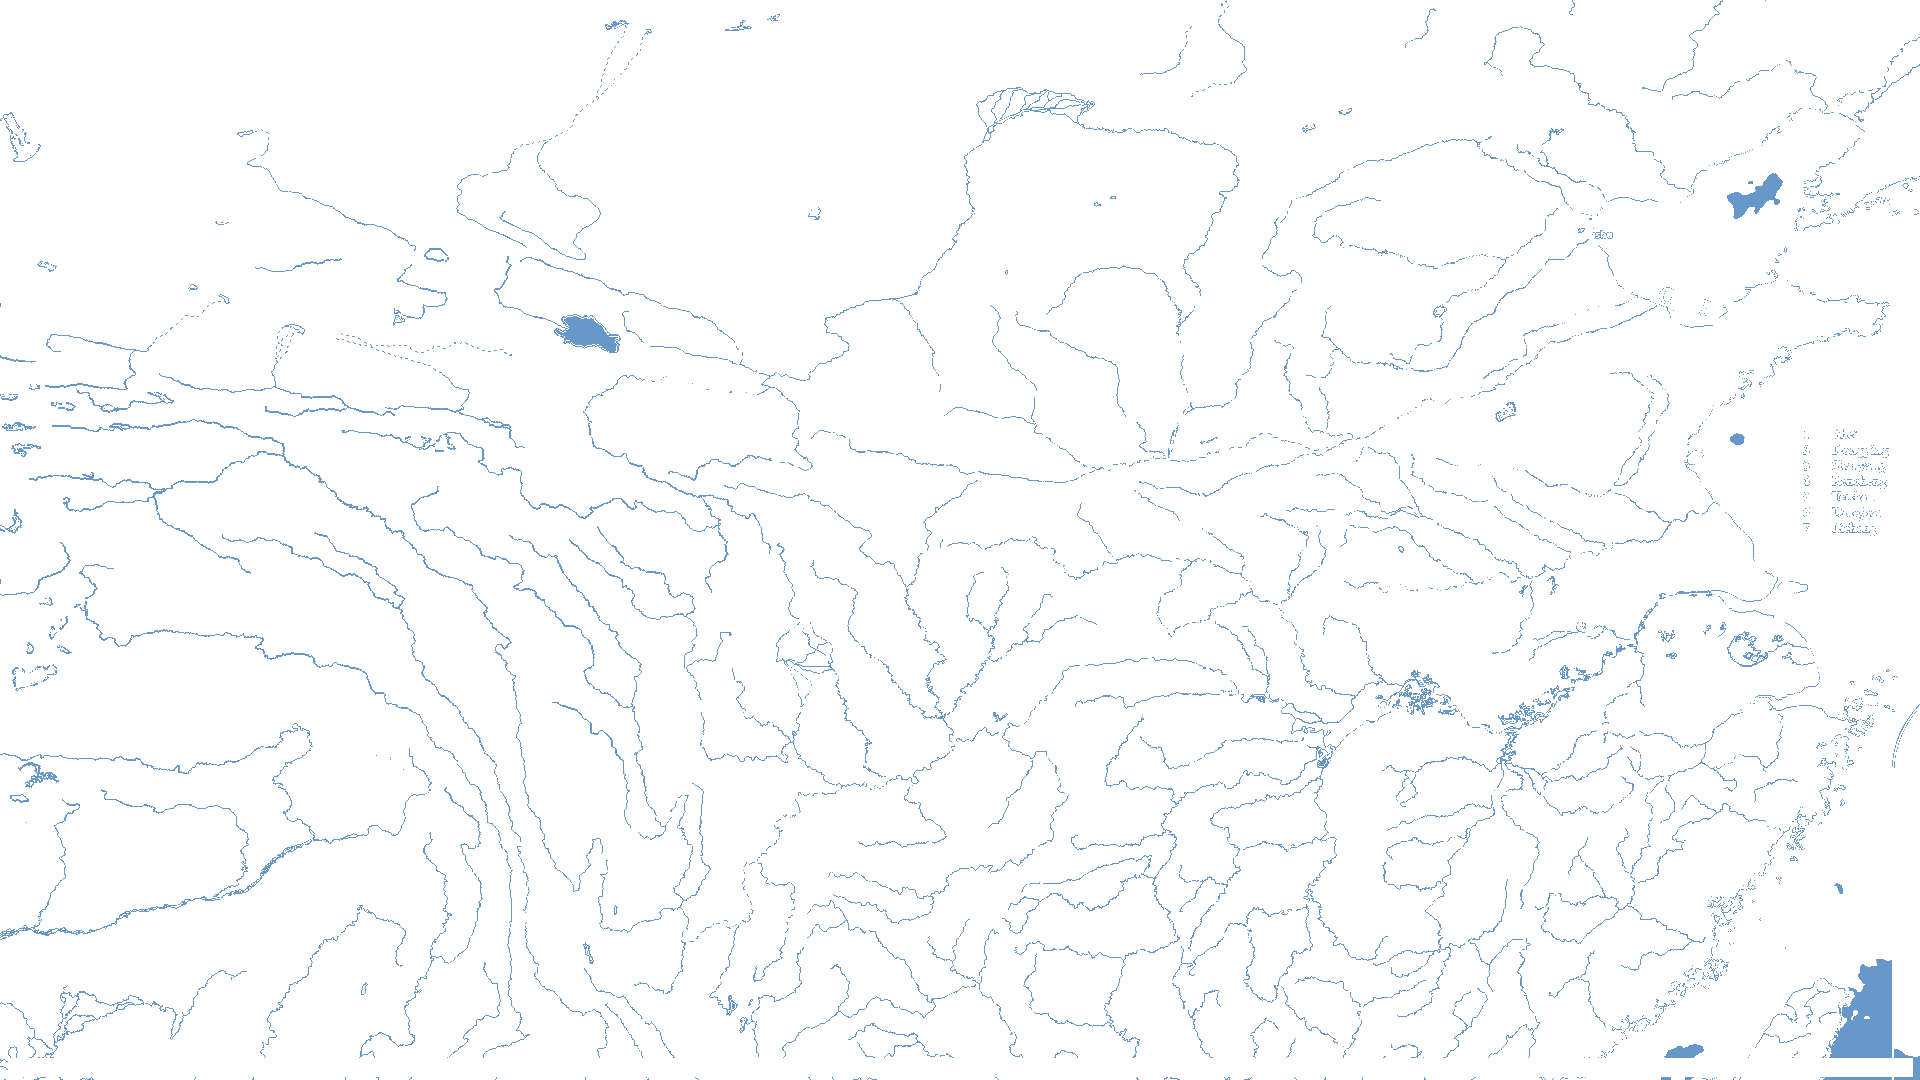
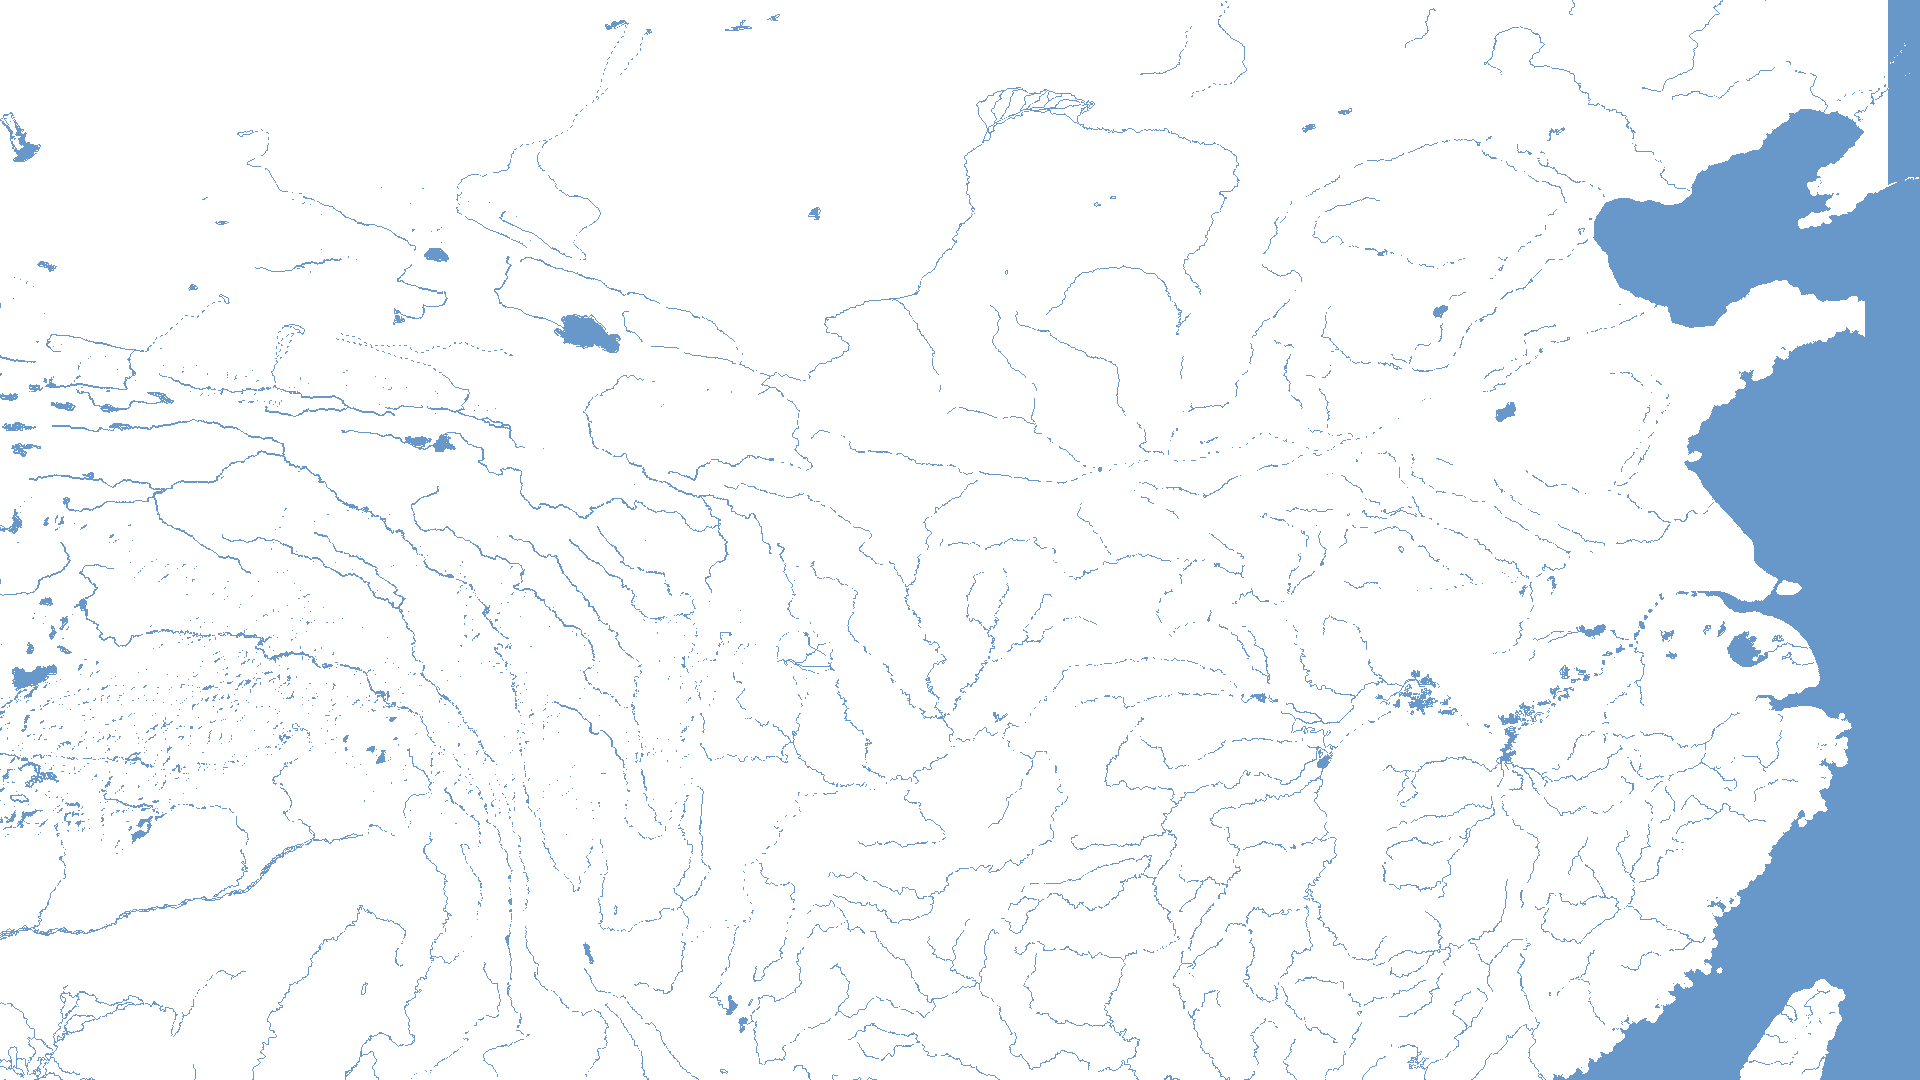
Remove Jian'an source labels from the HD terrain.
Inpaint commandery names, province letters, dashed borders, and the legend plate on the 1920x1080 crop. Keep relief, rivers, lakes, seas, and coastline. City UVs are unchanged. The playable base remains a CC BY-SA 4.0 derivative of Esiymbro's map.

diff --git a/docs/hd-overworld-spec.md b/docs/hd-overworld-spec.md
@@ -3,7 +3,7 @@
 本文是 **大地图（overworld）** 的产品与技术规格。它不是 CSS 2× 放大说明书——那一层见 [hd-graphics.md](hd-graphics.md)。  
 规格与实现路径仍不替换 `dat.lib`、不伪造游戏截图。几何占位可继续用于未接线的层。
 
-**素材现状（分支内）：** HD 视觉地理以 Wikimedia **Jian'an Commanderies**（219 CE，Esiymbro，CC BY-SA 4.0）为严格参考（见 `GEOGRAPHY.md` 与 [jianan-city-alignment.md](jianan-city-alignment.md)）。地形/河湖海是该图 1920×1080 裁切衍生；**城标按建安图史实相对位置**，不再按引擎 12×8 格铺开。引擎 ID / `g_CityPositions` 只用于规则与入城对齐。其它层仍是 AI 占位。**不是**步步高原作美术。  
+**素材现状（分支内）：** HD 视觉地理以 Wikimedia **Jian'an Commanderies**（219 CE，Esiymbro，CC BY-SA 4.0）为严格参考（见 `GEOGRAPHY.md` 与 [jianan-city-alignment.md](jianan-city-alignment.md)）。可玩底图是该图 1920×1080 裁切的 **去字衍生**（原图郡名/州名/图例已 inpaint）；**城标按建安图史实相对位置**。引擎 ID / `g_CityPositions` 只用于规则与入城对齐。其它层仍是 AI 占位。**不是**步步高原作美术。  
 **分支策略：本轨道只停在 `feature/hd-graphics`，在用户明确要求之前不要合入 `main`。**
 
 状态：产品方向已锁定；史实向地形已进本分支。**P0–P3 已在本分支落地（P2 partial）**：P1 城态/点选仍在；P2 在地形与城标之间画路网。邻接来自 `g_CityPositions` 的格邻接（Chebyshev≤1），不是引擎出征表。关隘只标在路中点压到河叠加处。缺口见 §8–§9 与 FEATURES.md。

diff --git a/FEATURES.md b/FEATURES.md
@@ -101,7 +101,7 @@
 |------|------|------|
 | `classic` / `hd-map` 切换 | done | `localStorage['baye/overworldMode']`，默认 `classic`。首页下拉 + `pc.html` 画质条「经典地图 / HD 地图」 |
 | 1080p 容器 `#hd-overworld` | done | Canvas 2D，设计 1920×1080，窗口内 `contain`；DPR≤2 提高清 backing store |
-| 地形合成 | done | Wikimedia Jian'an Commanderies（219 CE，CC BY-SA 4.0）1920×1080 裁切为底；河湖海/山随该图。城标按建安史实相对位置（`jianan-cities.json`），不再用 12×8 格。缺文件回退椭圆大陆 |
+| 地形合成 | done | Wikimedia Jian'an Commanderies（219 CE，CC BY-SA 4.0）1920×1080 裁切并 **去掉原图文字/图例**，只留地形与水体。城标按建安史实 UV（`jianan-cities.json`）。缺文件回退椭圆大陆 |
 | 城标四态 / 势力色 | done | empty / owned / neutral / selected 用 `cities/marker_*.png`；空城 Belong 0；己方 `Belong === g_PlayerKing+1`；他方按 `palette/factions.json` 色环 |
 | 城名标签 | done | `baye.getCityName(i)`，20px 暗底+描边，重叠时下移避让 |
 | 点击入城 | partial | 当前城读 `g_CityPos.setx/sety`。词典原版马腾已核验：西凉→安定、安定→天水均打开对应四项菜单（`tile-walk` RD）。写字段会进错城，已不用。无 `g_CityPos` 的 lib 回退邻接 BFS，未测 |

diff --git a/assets/hd-overworld/GEOGRAPHY.md b/assets/hd-overworld/GEOGRAPHY.md
@@ -9,12 +9,13 @@ HD **视觉**地理以 Wikimedia **Jian'an Commanderies**（219 CE，Esiymbro，
 
 | 要素 | 布局 |
 |------|------|
-| 底图 | 建安图 16:9 裁切（凉州→岭南，黄河·长江核心），1920×1080 |
+| 底图 | 建安图 16:9 裁切后 **去字**（郡名/州名/图例/比例尺已 inpaint），只留地形与水体，1920×1080 |
 | 黄河 / 长江 / 淮河 / 湖泊 / 海 | 来自该图水体 |
 | 山脉 | 该图自身的 shaded relief（秦岭、太行、南岭、四川缘等） |
 | 城标 | `jianan-cities.json` 的史实 UV，不是引擎格线性映射 |
 
 ## 授权
 
-衍生底图遵循 CC BY-SA 4.0，署名 Esiymbro / Wikimedia Commons。
+`base_plains.png` 是 Esiymbro 建安图的 **去标注衍生图**（inpaint 掉原图文字与图例），仍按 **CC BY-SA 4.0** 署名。
+完整带字参考图只放在 `assets/hd-overworld/reference/`，不进可玩 HD 底图。
 `assets/hd-overworld/reference/LICENSE.txt`。

diff --git a/docs/jianan-city-alignment.md b/docs/jianan-city-alignment.md
@@ -9,7 +9,7 @@ HD 大地图的**视觉地理**以 Wikimedia Commons
 ## 授权
 
 全图参考：`assets/hd-overworld/reference/Jianan_Commanderies_full.png`（2500×1800，由上传条带竖拼）。
-1920×1080 裁切（凉州→岭南 / 黄河·长江核心，去掉右侧图例）用作地形底图，属该图的衍生作品，遵循同一 CC BY-SA 4.0。许可原文见 `assets/hd-overworld/reference/LICENSE.txt`。
+1920×1080 裁切（凉州→岭南 / 黄河·长江核心）再 **inpaint 去掉原图全部文字/图例/比例尺**，只把地形与水体写入可玩底图 `terrain/base_plains.png`。带字原图只留在 `reference/`。属该图的衍生作品，遵循同一 CC BY-SA 4.0。许可原文见 `assets/hd-overworld/reference/LICENSE.txt`。
 
 ## 投影
 
